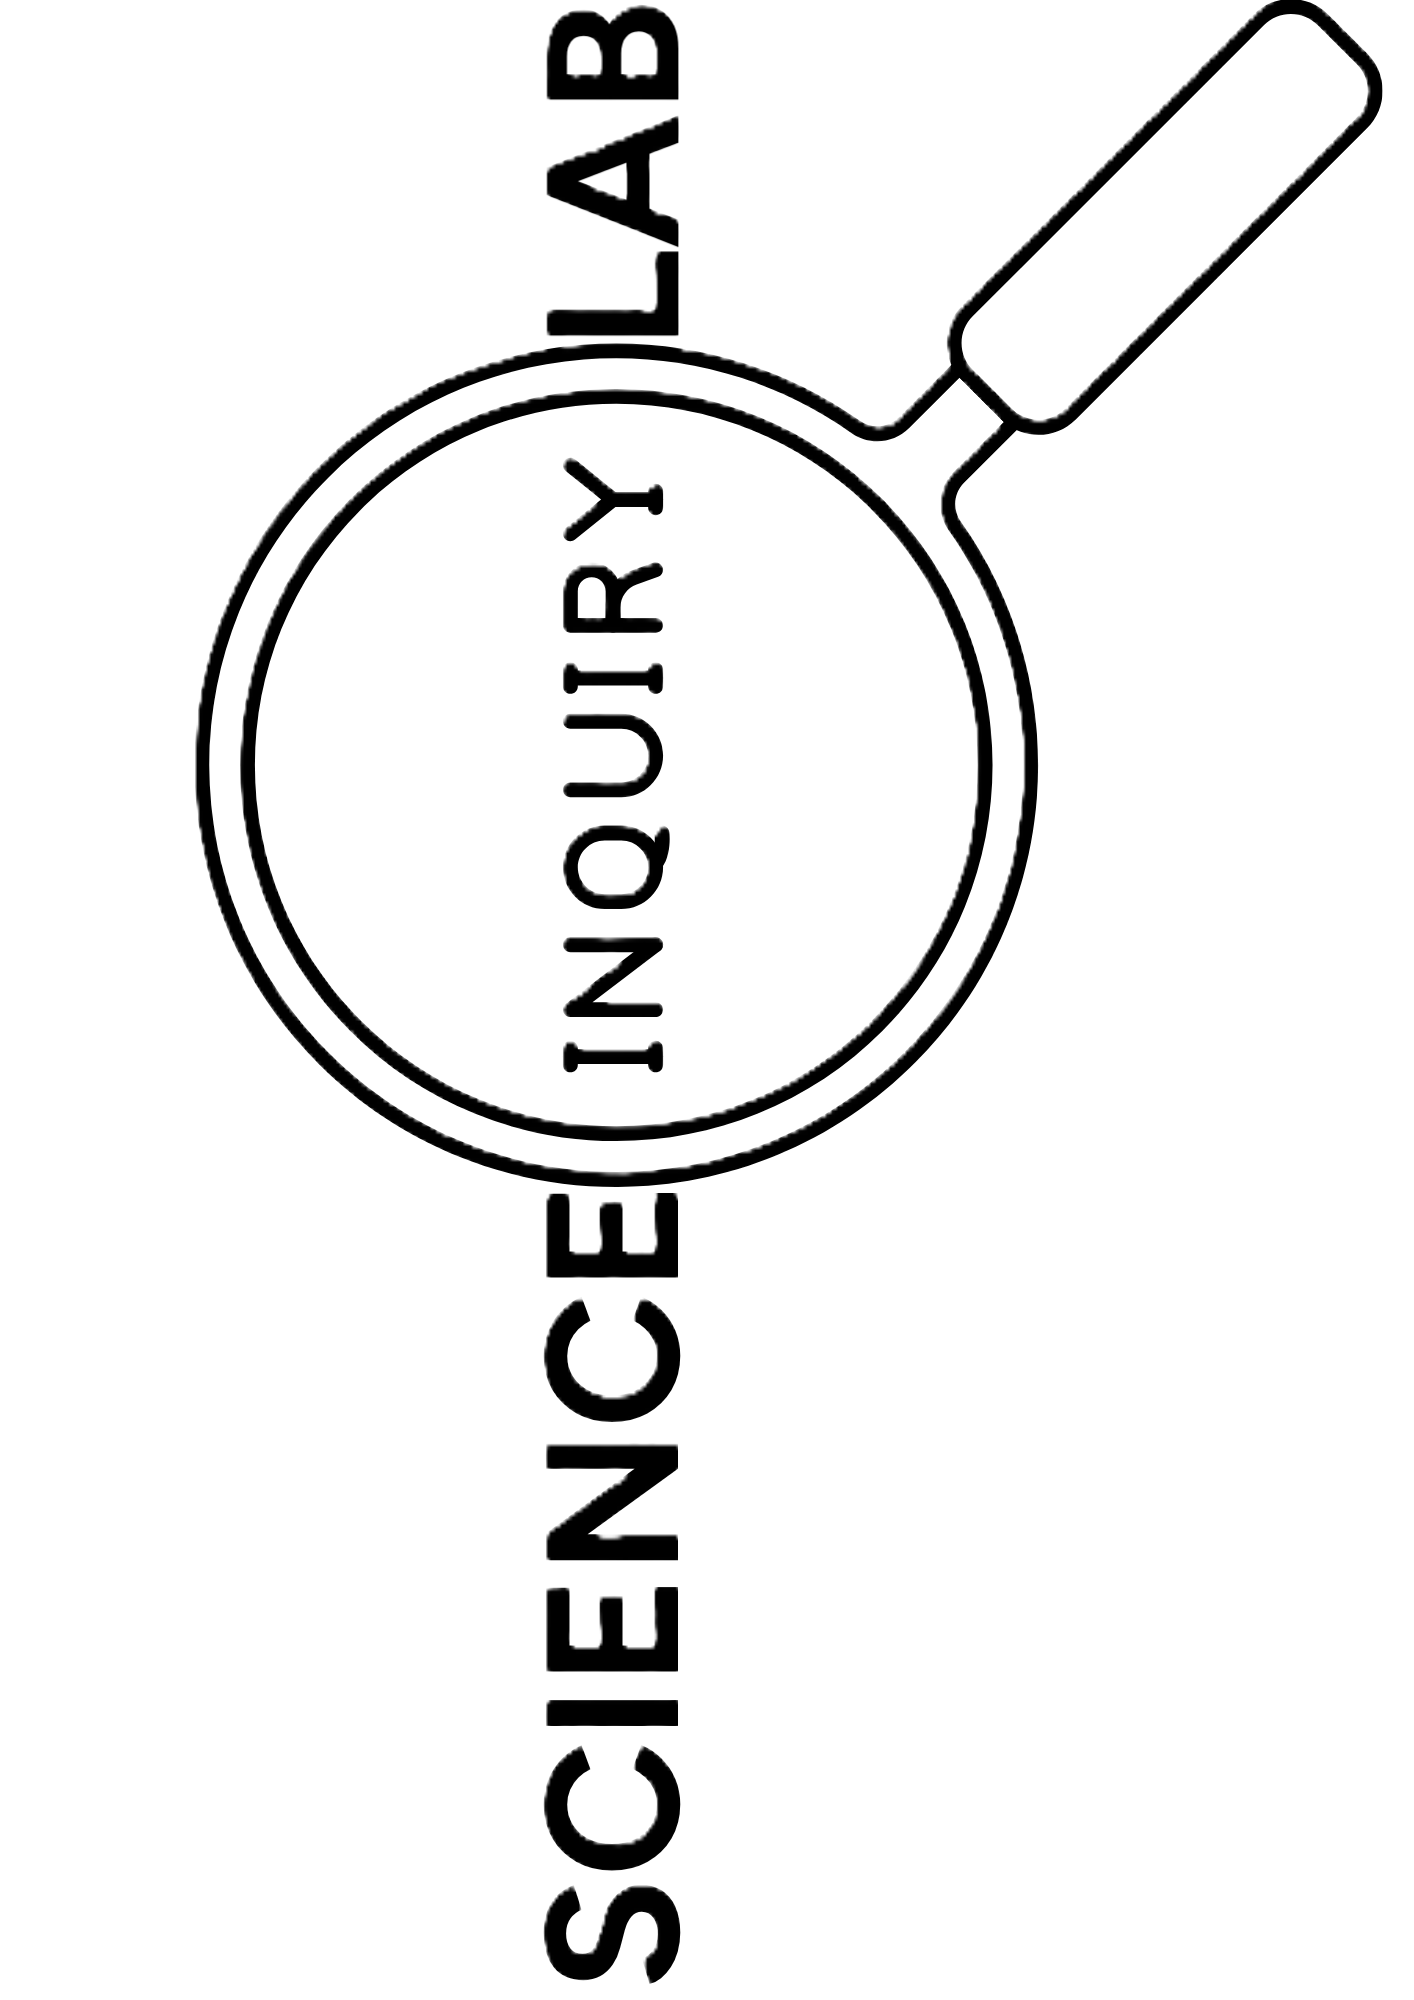
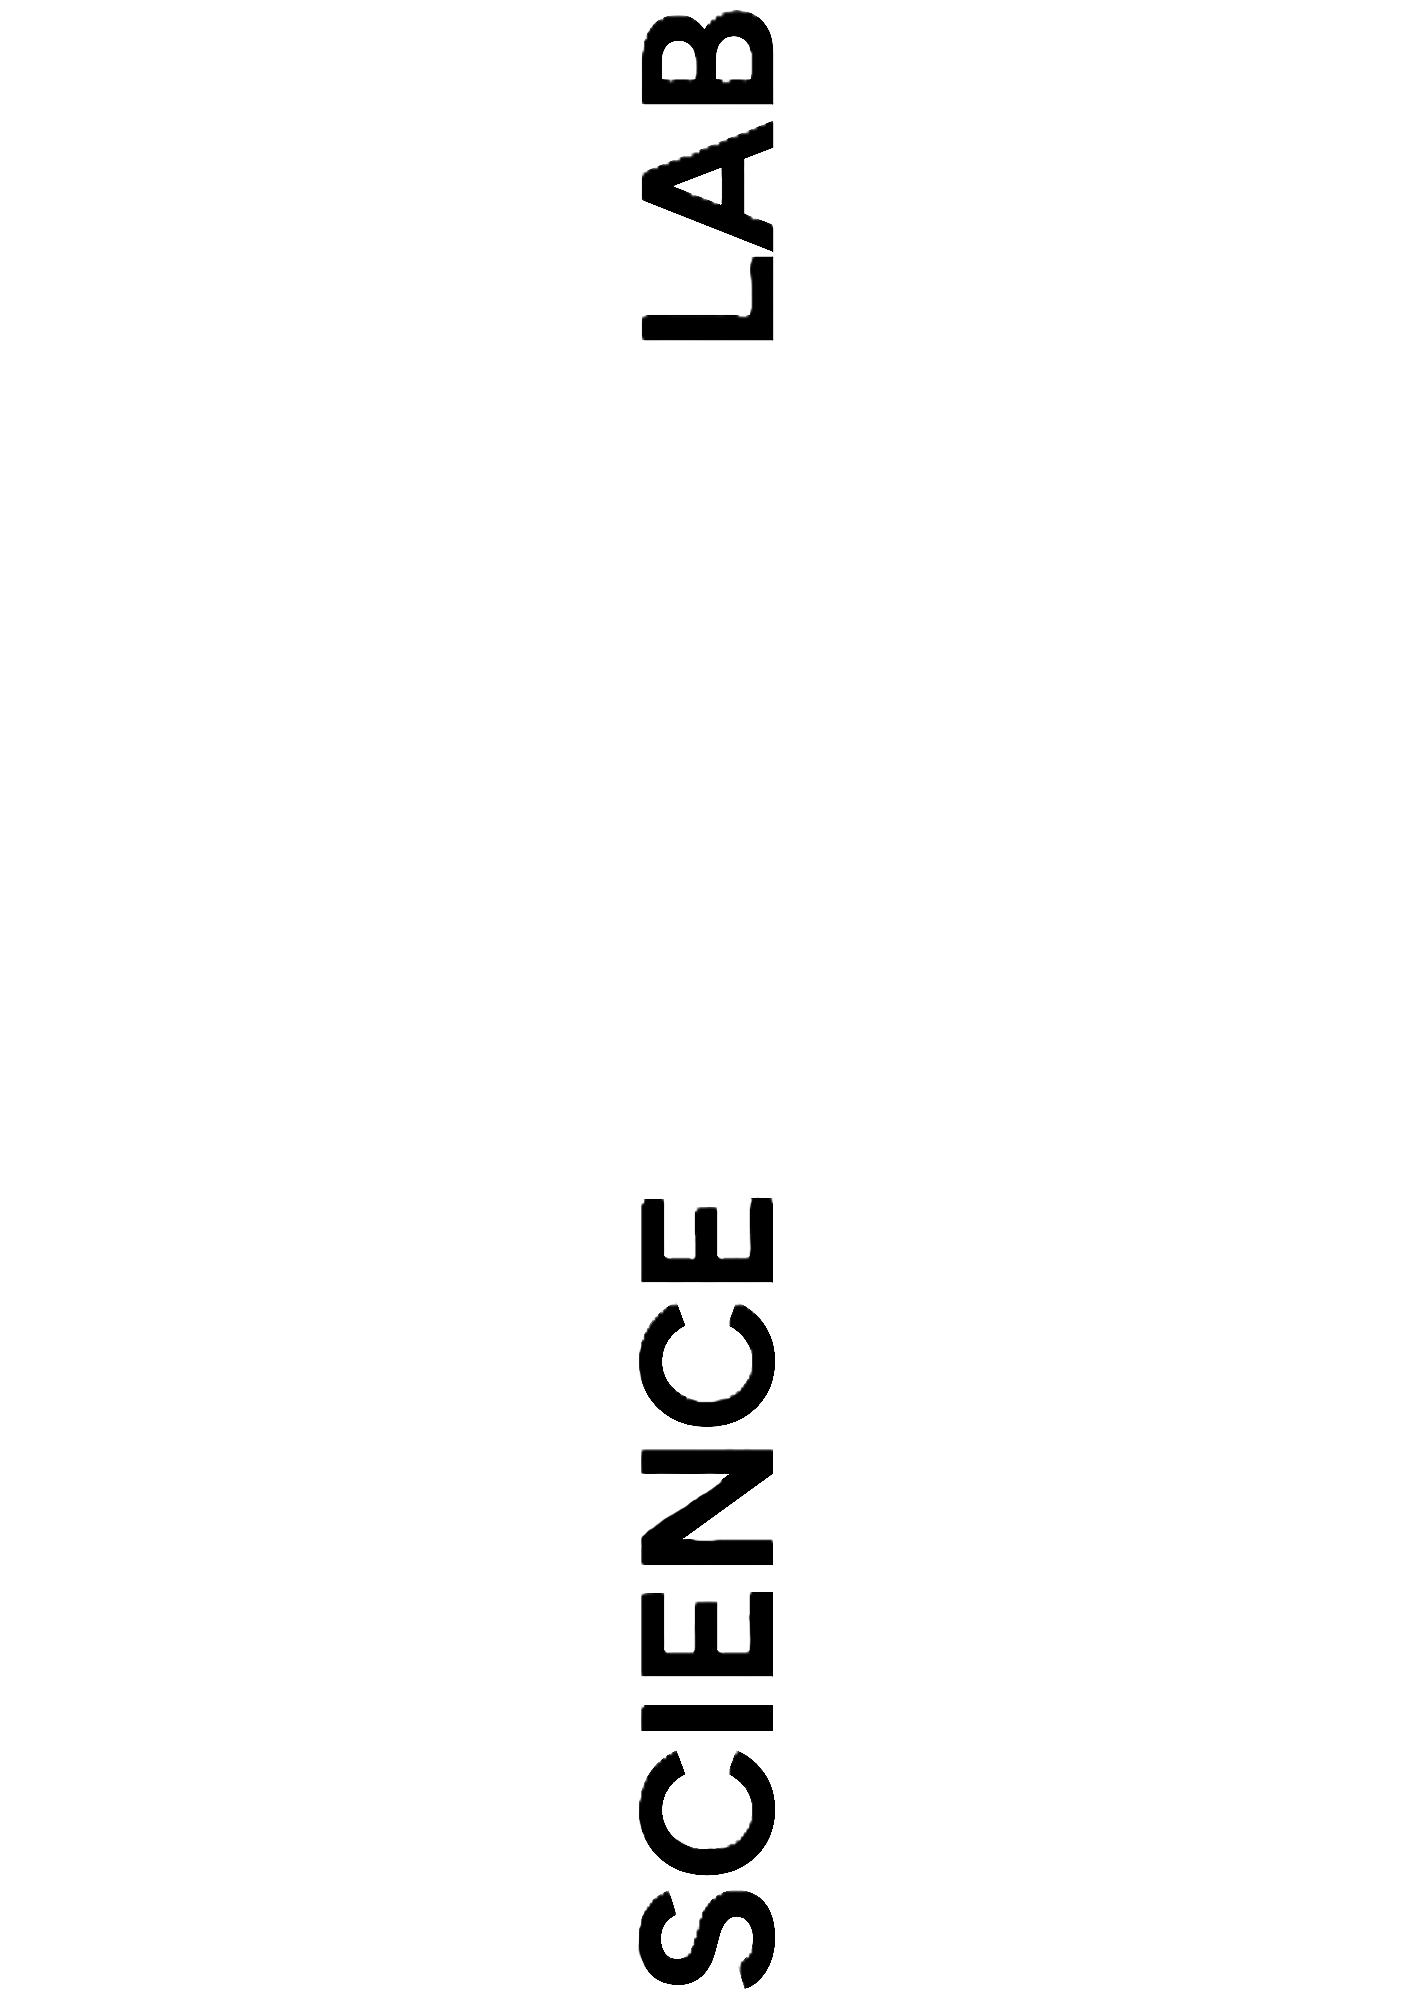
added glow effect on home title

diff --git a/src/views/HomeView.vue b/src/views/HomeView.vue
@@ -400,7 +400,16 @@ onBeforeUnmount(() => {
   <main class="page">
     <header class="lesson-heading">
       <div id="hero">
-        <img src="../images/index/title.png" alt="Science Inquiry Lab" />
+        <div class="image-container">
+          <img src="../images/index/title.png" alt="Science Inquiry Lab" />
+          <div class="hero-lens">
+            <img
+              src="../images/index/title-responsive.png"
+              alt="Responsive part of the title"
+            />
+            <span class="glow"></span>
+          </div>
+        </div>
       </div>
     </header>
 
@@ -474,6 +483,10 @@ onBeforeUnmount(() => {
   margin-top: 10px;
 }
 #hero {
+  --gradient: linear-gradient(to top, var(--purple), var(--orange));
+  --mask: url("/images/index/title-responsive.png") center / 100% 100% no-repeat;
+
+  position: relative;
   display: flex;
   align-items: center;
   justify-content: center;
@@ -487,13 +500,84 @@ onBeforeUnmount(() => {
   user-select: none;
 }
 
-#hero img {
-  display: block;
+.glow {
+  position: absolute;
+  inset: 0;
+  opacity: 0;
+
+  transition: opacity 0.4s ease;
+  pointer-events: none;
+
+  animation: glow-pulse 3s ease-in-out infinite;
+}
+
+@keyframes glow-pulse {
+  0%,
+  100% {
+    filter: blur(2px) brightness(1);
+  }
+  50% {
+    filter: blur(10px) brightness(1.8) saturate(2);
+  }
+}
+
+.glow::after {
+  content: "";
+  position: absolute;
+  inset: 0;
+  background: var(--gradient);
+  -webkit-mask: var(--mask);
+  mask: var(--mask);
+}
+
+.page:has(.lesson-card:hover) .glow {
+  opacity: 1; /* glow strength */
+}
+
+/* Rainbow overlay masked to the magnifier's shape; fades in on hover. */
+.hero-lens::after {
+  content: "";
+  position: absolute;
+  inset: 0;
+  /* "to top" runs left-to-right once the container is rotated 90deg. */
+  background: var(--gradient);
+  -webkit-mask: var(--mask);
+  mask: var(--mask);
+
+  opacity: 0;
+  transition: opacity 0.4s ease;
+  pointer-events: none; /* doesn't interfere with the click counter */
+}
+
+.page:has(.lesson-card:hover) .hero-lens::after {
+  opacity: 1;
+}
+
+/* One box, one rotation: both images are laid out inside it in the
+   same 1414x2000 frame the original single logo used. */
+.image-container {
+  position: relative;
+  flex: none;
   /* Prevent the rotated logo from taking over short/zoomed viewports. */
   width: clamp(200px, 40vw, 450px);
-  max-width: none;
-  height: auto;
+  aspect-ratio: 1414 / 2000;
   transform: rotate(90deg);
+}
+
+#hero img {
+  display: block;
+  max-width: none;
+  width: 100%;
+  height: 100%;
+}
+
+/* Magnifier: a square image placed over the "INQUIRY" part of the text. */
+.hero-lens {
+  position: absolute;
+  left: 21%;
+  top: 2%;
+  width: 80%;
+  aspect-ratio: 1 / 1;
 }
 
 .carousel {
@@ -614,13 +698,17 @@ onBeforeUnmount(() => {
   transform: rotate(45deg);
 }
 .carousel-status {
-  margin: 0;
-  color: var(--muted);
+  margin: 0 auto;
+  padding: 10px;
+  border-radius: 99px;
+  color: var(--paper);
+  background: var(--purple);
   font-size: 0.85rem;
   font-weight: 700;
   letter-spacing: 0.12em;
   text-align: center;
   text-transform: uppercase;
+  border: 2px solid var(--line);
 }
 #hero:focus-visible {
   outline: 4px solid var(--purple);
